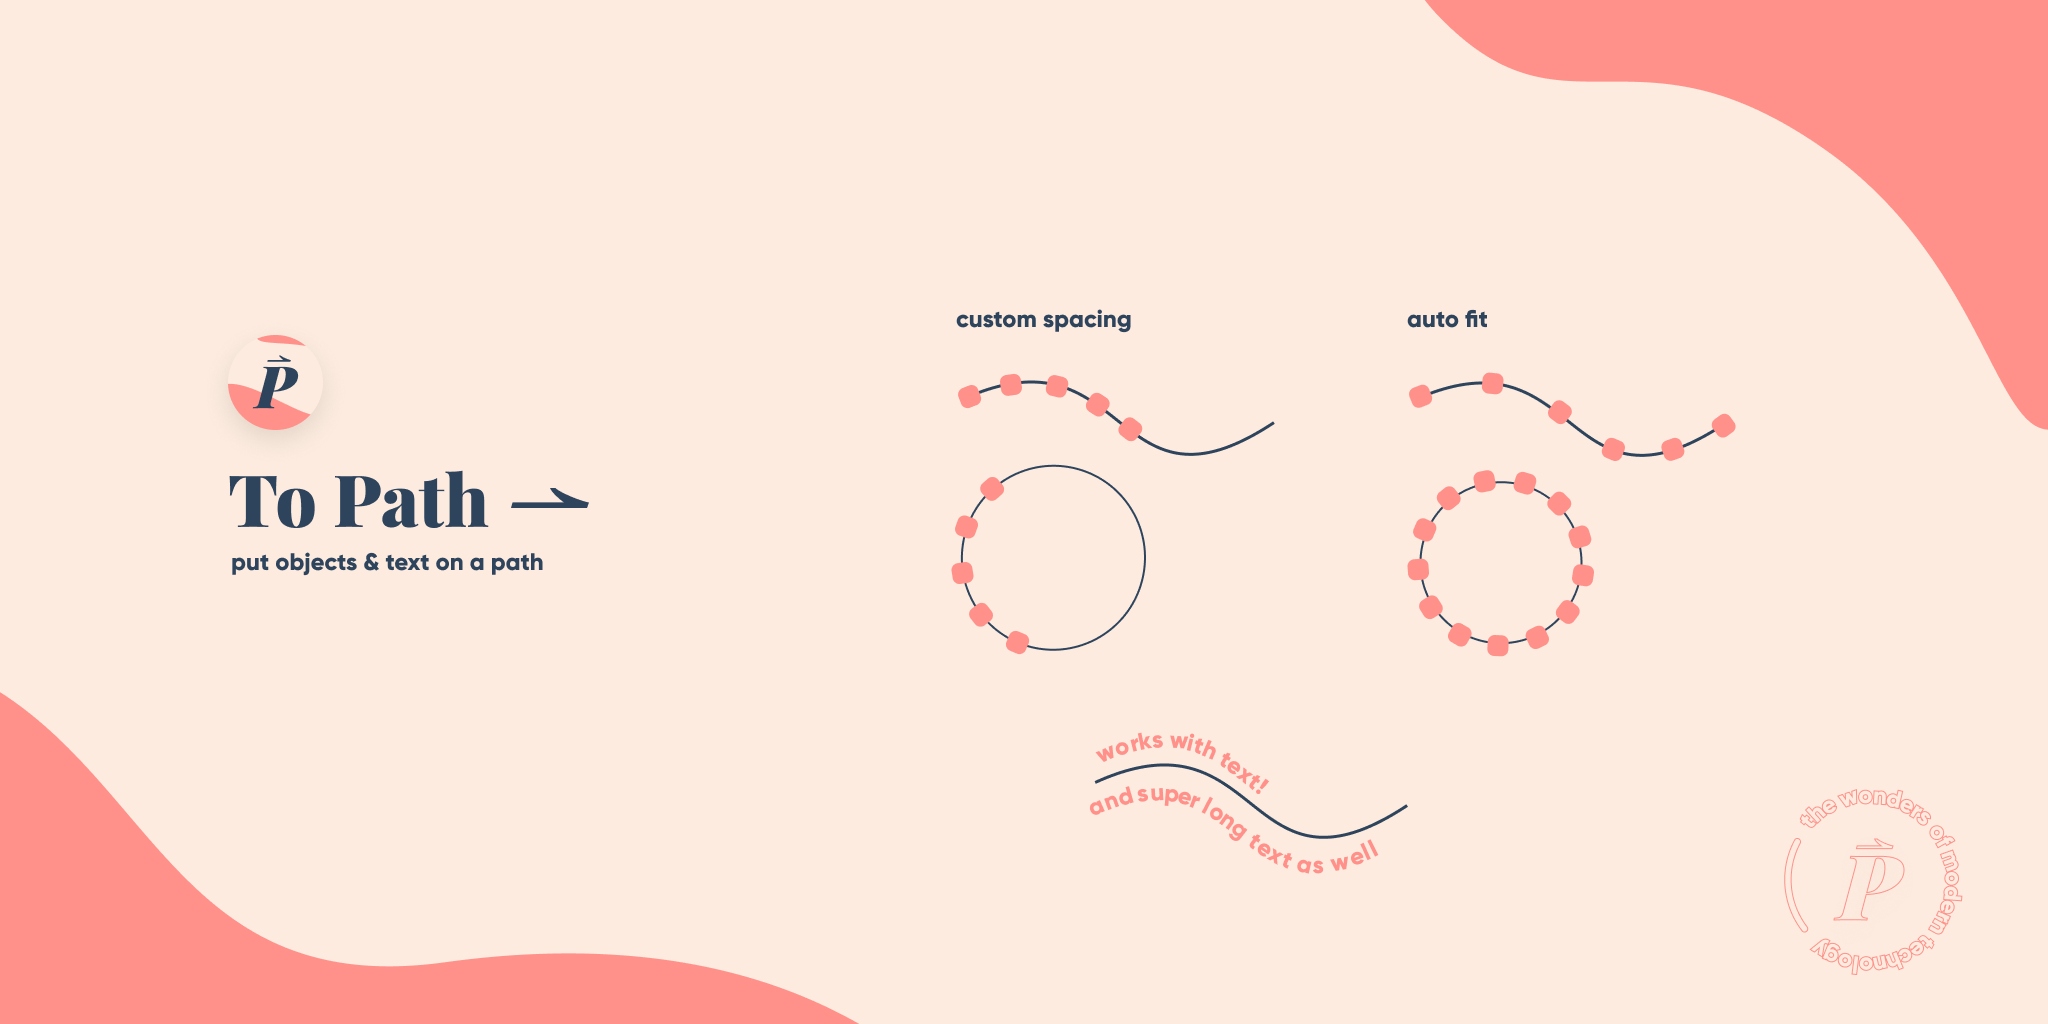
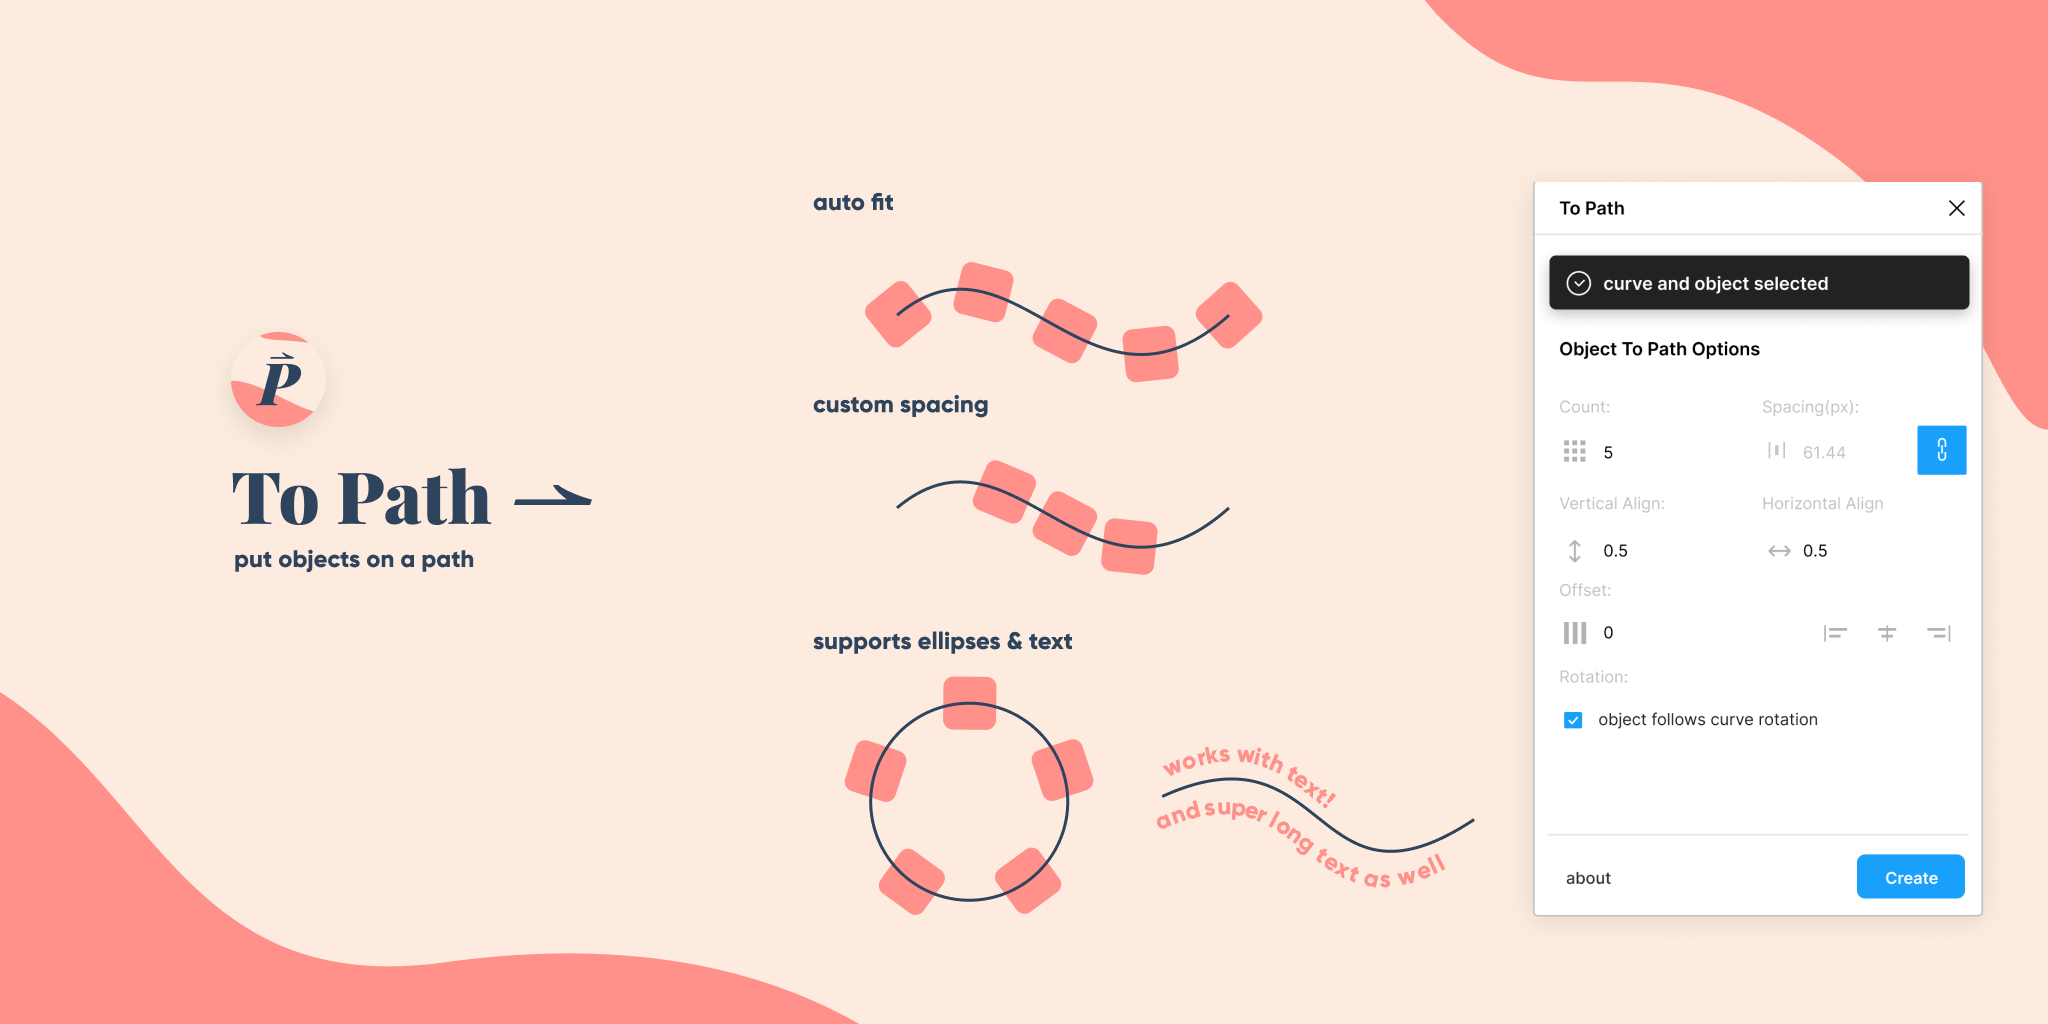
bug fixes

diff --git a/src/ui.tsx b/src/ui.tsx
@@ -5,7 +5,7 @@ import './figma-plugin-ds.min.css'
 import './scss/main.scss'
 import { SelectOptions, SelectVisual } from './ui/selectVisual'
 import Create from './ui/Create'
-
+const manifest = require( './../package.json')
 const logo = require('./logo.svg')
 declare function require(path: string): any
 function UI() {
@@ -37,7 +37,7 @@ function UI() {
 			},
 			'*'
 		)
-		console.log(setting)
+		//console.log(setting)
 	}
 
 	onmessage = event => {
@@ -91,7 +91,7 @@ function UI() {
 	return (
 		<div>
 			<div className={about === true ? 'about' : 'about hidden'}>
-				<div className="flex">
+				<div className="flex-about">
 					<img src={logo} className="logo"></img>
 					<svg
 						className="logotext"
@@ -105,20 +105,29 @@ function UI() {
 							fill="#2E445D"
 						/>
 					</svg>
-					<p className="type type--pos-medium-bold"> author: last night</p>
-					<p className="type type--pos-medium-normal"> version 1.0</p>
+					<p className="type type--pos-medium-bold"> author: {manifest.author} </p>
+					<p className="type type--pos-medium-normal"> version {manifest.version}</p>
+					<p className="flex type type--pos-medium-bold" >
+					
 					<a
 						className="type type--pos-medium-bold"
 						href="https://github.com/codelastnight/to-path-figma"
 						target="_blank">
 						github
-					</a>
+					</a>  
+					<div > | 
+					</div>
+
 					<a
 						className="type type--pos-medium-bold"
 						href="https://twitter.com/art_last_night"
 						target="_blank">
 						twitter
 					</a>
+					
+					
+					</p>
+					
 				</div>
 			</div>
 

diff --git a/src/ui/selectVisual.tsx b/src/ui/selectVisual.tsx
@@ -60,18 +60,19 @@ function SelectOptions(props) {
 
 	function onOffset(align = "right") {
 		if (!props.form.autoWidth) {
-			let copy:Formb =  { ...props.form}
-			const length = copy.count * (copy.objWidth + copy.spacing)
+			let copy:Formb =  { ...props.form}	
+			const count = (copy.isLoop ? copy.count -1 : copy.count )
+			const length = count * (copy.objWidth) + copy.spacing *(count -1)
 			switch (align) {
 				
 				case "left":
 					copy.offset = 0 
 				break
 				case "center":
-					copy.offset = (copy.totalLength / 2) - (length /2)
+					copy.offset = (copy.totalLength / 2) - (length /2) + copy.objWidth/2
 				break
 				case "right":
-					copy.offset = copy.totalLength - length
+					copy.offset = copy.totalLength - length + copy.objWidth/2
 				break
 			}
 			props.setForm(copy)

diff --git a/src/scss/main.scss b/src/scss/main.scss
@@ -47,14 +47,21 @@ body {
 	width: 100%;
 	z-index: 69;
 	padding: 8px;
-	.flex {
+	
+	background-color: #fff;
+
+	.flex-about {
 		display: flex;
 		align-items: center;
 		flex-direction: column;
 	}
-	background-color: #fff;
+
 	&.hidden {
 		display: none;
+	}
+
+	.logotext {
+		margin-bottom: 1.3em;
 	}
 	.logo {
 		margin: 2em;
@@ -65,7 +72,10 @@ body {
 	}
 
 	p {
-		margin-bottom: 0;
+		margin: 0.4em 0;
+	}
+	a {
+		margin: 0 1em ;
 	}
 }
 

diff --git a/src/ts/place.ts b/src/ts/place.ts
@@ -161,7 +161,7 @@ export var object2Curve = function(
 	const newNodes: SceneNode[] = []
 	// values needed to pass between each objects
 	let pass: Pass = {
-		spacing: node.width * options.horizontalAlign + options.offset,
+		spacing: 0  + options.offset,
 		pointIndex: 0
 	}
 	for (let i = 0; i < options.count; i++) {
